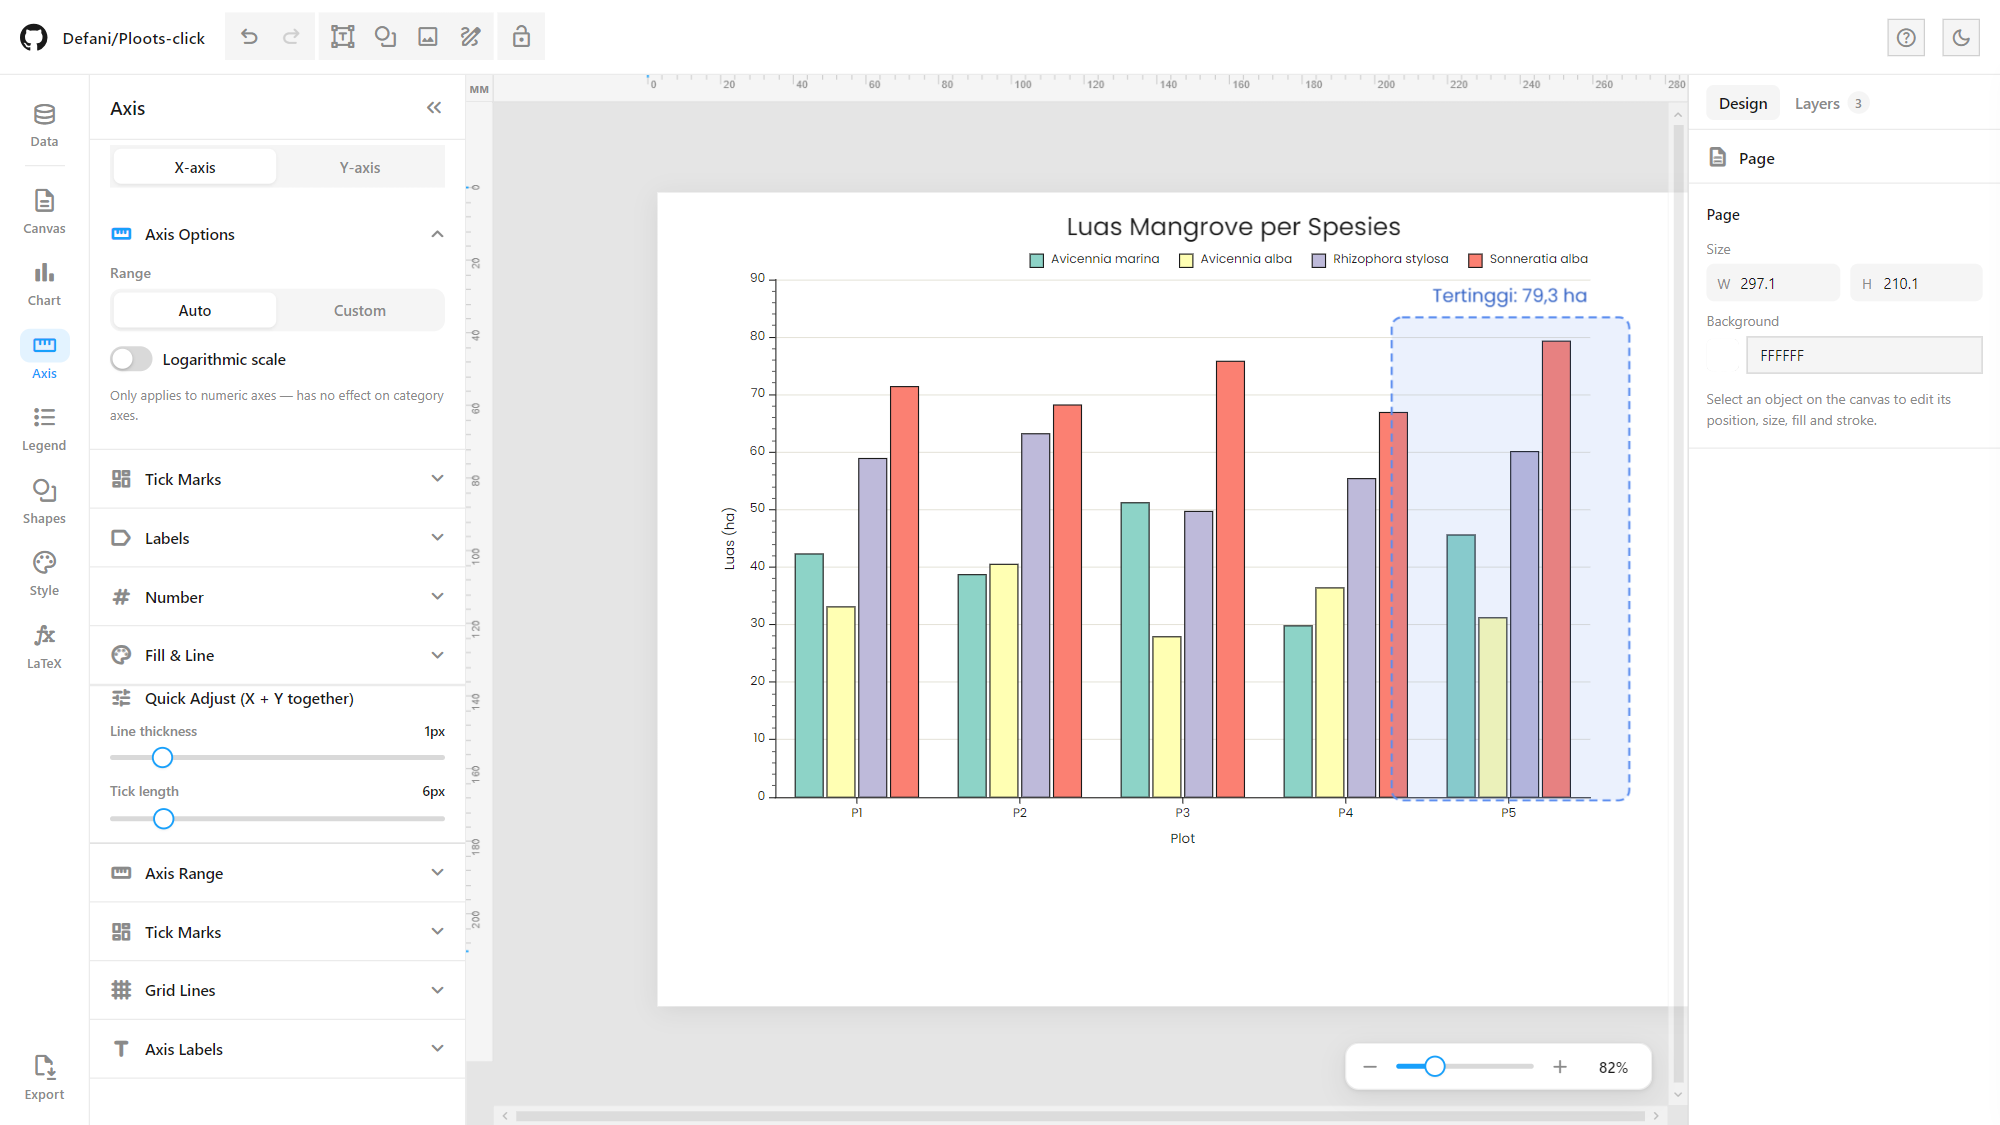
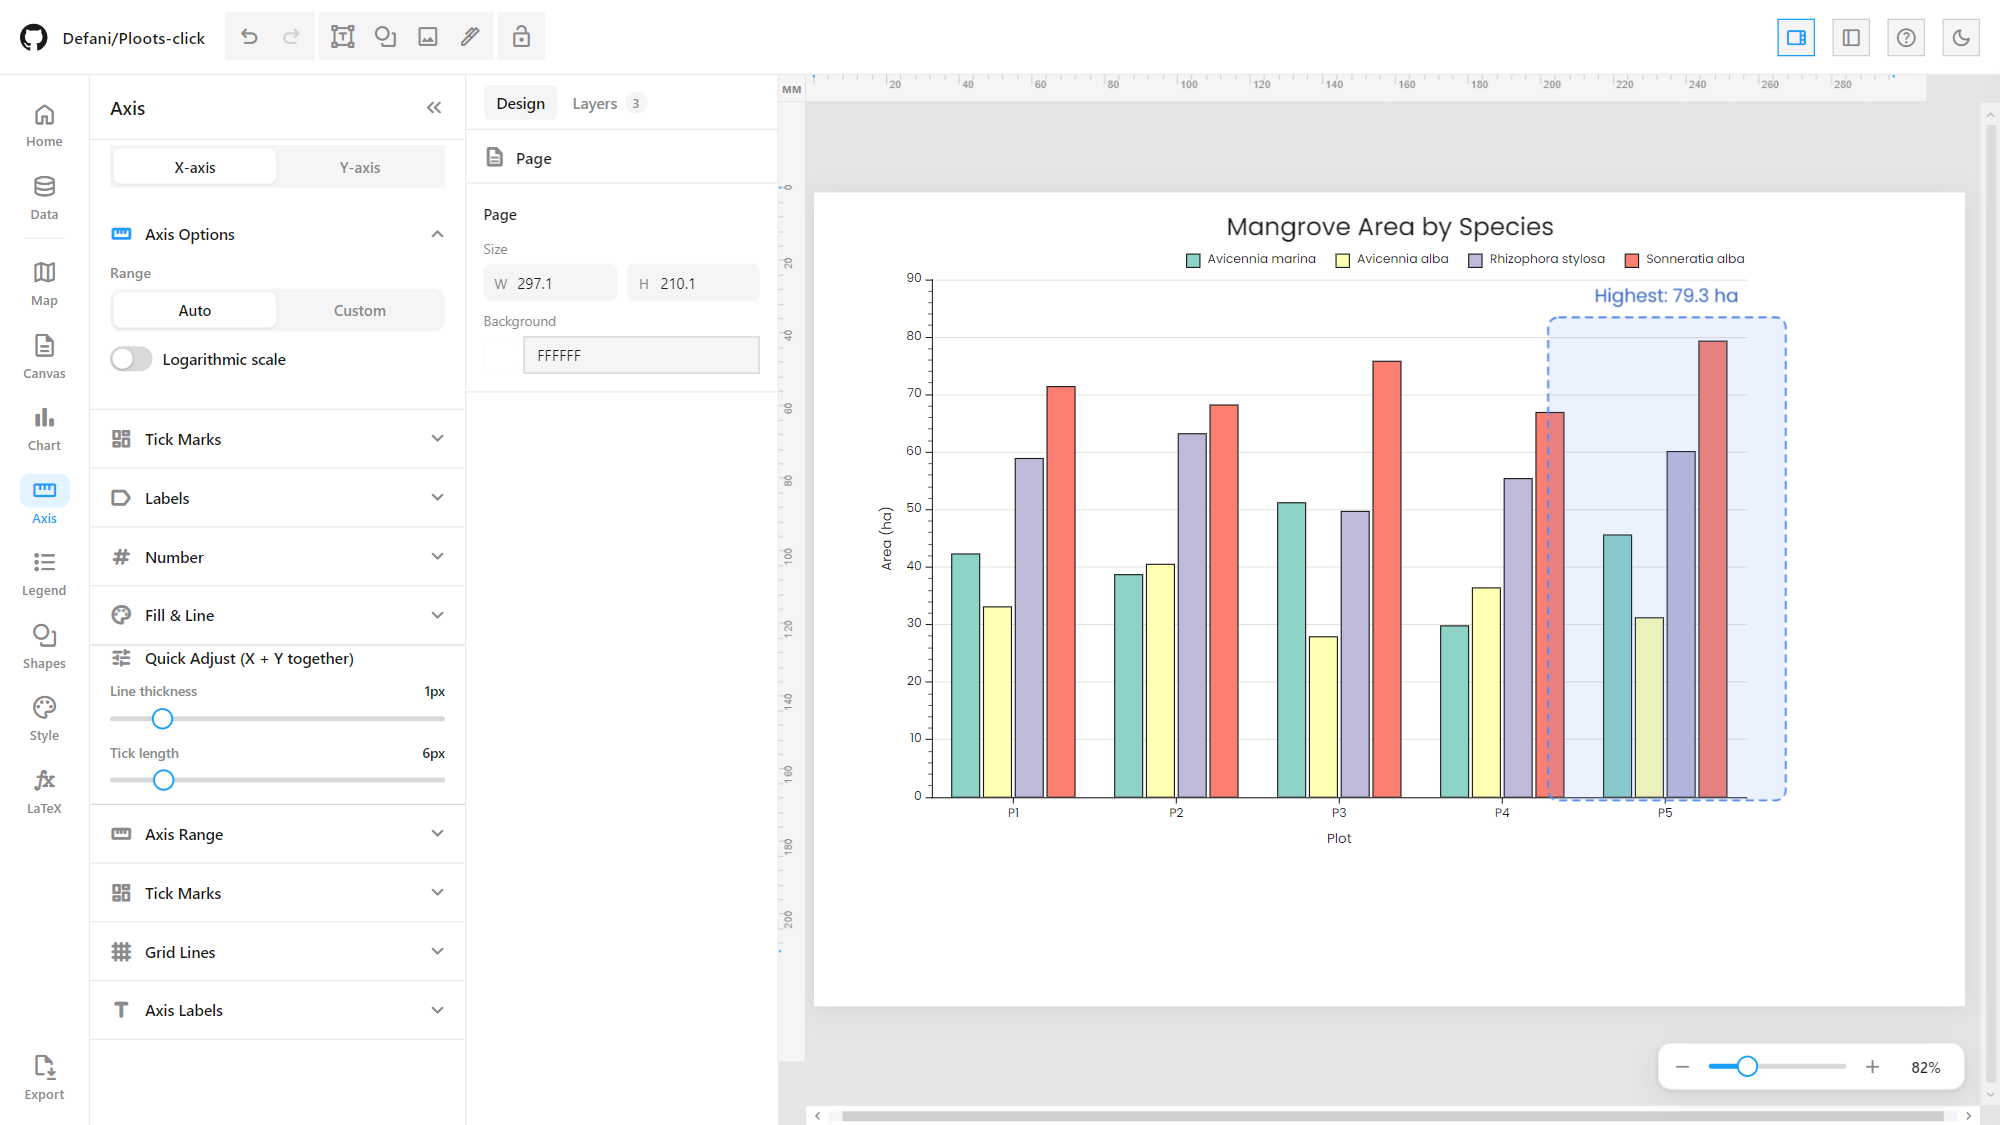
README: map workspace, Home screen and refreshed screenshots
Document the Home screen, the map workspace (layers, symbology,
basemaps, map view, grid, layout items, attribute table), panel docking,
wheel zoom and the Pen tool, with new screenshots of the map workspace,
its layout items and the attribute table. The chart screenshots and the
gallery are retaken with the English sample data and the one-side panel
layout. Libraries, shortcuts, limitations and credits now cover
MapLibre GL, geotiff.js and the basemap providers.

Also keep the Map panel's basemap dropdown in sync with state.

diff --git a/js/gis/06-panel.js b/js/gis/06-panel.js
@@ -251,7 +251,8 @@
   }
 
   function syncViewInputs() {
-    var sc = $("gisScale"), ro = $("gisRotation");
+    var sc = $("gisScale"), ro = $("gisRotation"), bm = $("gisBasemap");
+    if (bm && bm.value !== state.mapBasemap) bm.value = state.mapBasemap;
     if (sc && document.activeElement !== sc) { var n = GIS.getScale ? GIS.getScale() : 0; sc.value = n ? Math.round(n) : ""; }
     if (ro && document.activeElement !== ro) ro.value = GIS.getRotation ? Math.round(GIS.getRotation() * 10) / 10 : 0;
   }

diff --git a/README.md b/README.md
@@ -36,6 +36,7 @@ A single-page, no-backend chart builder for publication-ready figures — paste 
   - [Chart gallery](#chart-gallery)
   - [Data View](#data-view)
   - [Editor: toolbars, Design panel & layers](#editor-toolbars-design-panel--layers)
+  - [Map workspace (GIS)](#map-workspace-gis)
   - [Page layout & annotation](#page-layout--annotation)
   - [Export](#export)
 - [Architecture](#architecture)
@@ -61,17 +62,23 @@ A single-page, no-backend chart builder for publication-ready figures — paste 
 
 ## What is this?
 
-Ploots Click is a **client-side-only web app**: open the page (or visit the GitHub Pages link below) and everything — data parsing, chart rendering, page layout, and export — happens locally in your browser tab. Nothing you paste or upload is ever sent to a server, because there is no server. The app is just static HTML, CSS, and JavaScript, deployed straight from this repository via GitHub Pages, which is why it costs nothing to run and needs zero setup.
+Ploots Click is a **client-side-only web app**: open the page (or visit the GitHub Pages link below) and everything — data parsing, chart rendering, maps, page layout, and export — happens locally in your browser tab (maps fetch their basemap tiles online). Nothing you paste or upload is ever sent to a server, because there is no server. The app is just static HTML, CSS, and JavaScript, deployed straight from this repository via GitHub Pages, which is why it costs nothing to run and needs zero setup.
 
 [⬆ Back to Table of Contents](#table-of-contents)
 
 ## Interface
 
+The app opens on a **Home** screen: make a **Chart** from tabular data or a **Map** from spatial data, blank or from a sample.
+
+<p align="center">
+  <img src="assets/screenshots/home.png" alt="Home screen with the Chart and Map starts" width="100%">
+</p>
+
 <p align="center">
   <img src="assets/screenshots/editor-light.png" alt="Ploots Click editor: chart type gallery on the left, a grouped bar chart on an A4 page, Design panel on the right" width="100%">
 </p>
 
-The editor has three columns: the **left sidebar** (Data, Canvas, Chart, Axis, Legend, Shapes, Style, LaTeX, Export), the **page canvas** in the middle with rulers and a zoom slider, and the **right panel** with the Figma-style **Design** and **Layers** tabs. A dark theme is one click away (moon icon, top right):
+All panels sit on **one side** of the window so the page gets the most room: the rail and sidebar (Home, Data, Map, Canvas, Chart, Axis, Legend, Shapes, Style, LaTeX, Export) with the Figma-style **Design** and **Layers** panel next to them. Two buttons at the top right move the panels to the **left or right** and hide the Design/Layers panel. The page canvas has rulers, the mouse wheel zooms, and a dark theme is one click away (moon icon):
 
 <p align="center">
   <img src="assets/screenshots/editor-dark.png" alt="The same editor in dark theme" width="100%">
@@ -215,12 +222,37 @@ Every chart type, rendered by the D3 engine from its built-in sample data (click
   </tr>
 </table>
 
+### Map workspace (GIS)
+
+Pick **Map** on the Home screen (or the **Map** button in the rail) and the page's chart block becomes a **MapLibre GL** map frame, driven by its own **Map** panel. It works like a small QGIS print layout:
+
+<p align="center">
+  <img src="assets/screenshots/map-workspace.png" alt="Map workspace: ASEAN countries in graduated colors with a legend, scale bar, north arrow, inset map and coordinate grid on an A4 page" width="100%">
+</p>
+
+- **Layers**: any number of **vector** layers (GeoJSON or TopoJSON from a file, a URL or pasted text), **raster** layers (**GeoTIFF**: EPSG:4326, EPSG:3857 and WGS 84 / UTM zones; single-band on a color ramp or RGB) and **XYZ tile** layers. Reorder by drag or arrows, hide, rename, zoom to a layer.
+- **Symbology** per layer, as in QGIS: **Single symbol**, **Categorized** (a color per value, each editable) and **Graduated** (natural breaks / Jenks, quantile or equal interval on a color ramp). Values come from a feature property or are **joined from the Data table**. Labels, fill opacity, stroke, point size and line width.
+- **Basemaps**: every OpenFreeMap style (Positron, Bright, Liberty, Dark, Fiord), MapLibre demo tiles, OpenStreetMap, CARTO Light/Dark, Esri World Imagery and World Topo, OpenTopoMap, or none.
+- **Map view**: set the **scale (1:n)** and **rotation** directly, **lock** the map, or **move the content** inside the frame (double-click the map) with **Pan**, **Select** (click or drag a box) and **Identify** tools. The mouse wheel zooms the map while moving content.
+- **Coordinate grid** (graticule) with frame labels in degrees-minutes or decimal degrees, and a configurable map **frame**.
+- **Layout items**, free objects on the page that stay **linked to the map**: a **legend** built from the symbology, a **scale bar** (single box, double box, line ticks middle/down/up, stepped, hollow or numeric 1:n; units, segments, background frame), a **north arrow** (eight styles, follows the map rotation) and an **inset map** that shows the main map's extent. Move, resize and layer them like any shape; text, LaTeX and shapes from the usual tools sit alongside.
+
+<p align="center">
+  <img src="assets/screenshots/map-items.png" alt="Categorized map on Esri World Imagery with the scale bar selected and its properties in the Map panel" width="100%">
+</p>
+
+- **Attribute table** (a dock under the map): view and **edit** values, **select** features (rows and map stay in sync, selections shown in yellow), show selected only, search, add a field, delete features, and **export GeoJSON or CSV** of all features or only the selected ones.
+
+<p align="center">
+  <img src="assets/screenshots/map-attribute-table.png" alt="Attribute table under the map with two features selected, and the map tool bar with the Select tool active" width="100%">
+</p>
+
 ### Page layout & annotation
 - **Full-page canvas**, separate from the chart block: position and resize the chart anywhere on the page.
 - **10 built-in page templates** (A4/Letter/Legal landscape & portrait, 16:9 and 4:3 presentation, Instagram Story, social square) plus custom width/height in px, mm or cm, and a page background colour.
-- **Zoom** with the slider at the bottom right, Ctrl + and Ctrl − (Ctrl 0 for 100%), or Ctrl + mouse wheel. Custom **pan scrollbars**.
+- **Zoom** with the mouse wheel (around the pointer), the slider at the bottom right, or Ctrl + and Ctrl − (Ctrl 0 for 100%). Shift + wheel pans sideways; custom **pan scrollbars**.
 - **Drafting-style rulers** on the canvas edges, unit- and zoom-aware, that also act as a source for **draggable guide lines**.
-- **Layout objects** on top of the chart (Fabric.js): text boxes, 30 shapes, images and freehand drawing (pen, highlighter, marker, eraser), with lock, duplicate, delete, grouping and a right-click menu.
+- **Layout objects** on top of the chart (Fabric.js): text boxes, 30 shapes, images and a vector **Pen tool** (click for corners, drag for curves, click the first point to close), with lock, duplicate, delete, grouping and a right-click menu.
 - **LaTeX & symbol tool**: type formulas in `$...$` and see them rendered live on the canvas with MathJax (e.g. `$R^2 = 0.95$`, `$CO_2$`), with colour, size and font controls, recent formulas, ready-made templates, and a searchable symbol/unit catalog that also works in axis labels.
 - **Undo/redo** for chart settings and canvas objects alike, and a **help search** (question-mark icon) that finds any menu or setting by name.
 
@@ -335,7 +367,7 @@ flowchart TD
 │   │   ├── 13-axis-title-detach.js #  detach X/Y axis titles into free text
 │   │   ├── 14-legend-hover.js     #   drag the chart legend on the canvas
 │   │   ├── 15-legend-detach.js    #   detach the legend into a free-floating group
-│   │   ├── 16-draw-tool.js        #   freehand Draw tool (pen / highlighter / marker / eraser)
+│   │   ├── 16-draw-tool.js        #   Pen tool: vector paths with corner and curve anchors
 │   │   ├── 17-textbox-resize.js   #   text boxes resize their width instead of stretching the text
 │   │   ├── 18-chart-quickbar.js   #   floating quick controls when the chart is selected
 │   │   ├── 19-axis-tick-float.js  #   "Axis Tick Line" block in the Axis tab
@@ -347,7 +379,17 @@ flowchart TD
 │   │   ├── 25-design-panel.js     #   Figma-style Design tab (position, size, fill/gradient, stroke, shadow)
 │   │   ├── 26-selection-hud.js    #   W × H badge and distance guides for the selection
 │   │   ├── 27-object-float-bar.js #   floating bars for shapes, images, formulas, groups
-│   │   └── 28-axis-controls-sync.js # keeps the Axis tab's controls and the Format Axis panel in sync
+│   │   ├── 28-axis-controls-sync.js # keeps the Axis tab's controls and the Format Axis panel in sync
+│   │   └── 29-panel-dock.js       #   panels on one side (left/right), hide the Design/Layers panel
+│   ├── gis/                       # Map workspace (MapLibre GL)
+│   │   ├── 00-store.js            #   layers (vector / raster / XYZ), selection, export GeoJSON/CSV
+│   │   ├── 01-symbology.js        #   single / categorized / graduated (Jenks, quantile, equal)
+│   │   ├── 02-map.js              #   the map frame: basemaps, layers, grid, frame, scale, rotation, tools
+│   │   ├── 03-items.js            #   legend, scale bar, north arrow, inset map as page items
+│   │   ├── 04-raster.js           #   GeoTIFF reading and rendering (geotiff.js)
+│   │   ├── 05-attribute-table.js  #   attribute table dock
+│   │   ├── 06-panel.js            #   the Map panel
+│   │   └── 07-home.js             #   Home screen
 │   ├── data_view.js               # Data View: AG Grid table, wide/long reshape, transpose
 │   ├── dv_shelves.js              # Data View chart-mapping shelves (drag fields onto X / Y)
 │   ├── data_formulas.js           # Data View spreadsheet formulas (=SUM, =AVERAGE, ...)
@@ -656,10 +698,13 @@ Cap width and line thickness are independently adjustable, and the error bar col
 |---|---|
 | Ctrl+Z / Ctrl+Y (or Ctrl+Shift+Z) | Undo / redo |
 | Ctrl + / Ctrl − / Ctrl 0 | Zoom in / zoom out / zoom to 100% |
-| Ctrl + mouse wheel | Zoom around the pointer |
+| Mouse wheel | Zoom around the pointer (Shift: pan sideways, Alt: pan up/down) |
 | Ctrl+B / Ctrl+I / Ctrl+U | Bold / italic / underline (text selected) |
 | Delete or Backspace | Remove the selected layout object |
 | Ctrl+C (Data View) | Copy the selected cells |
+| Enter / double-click (Pen tool) | Finish the path; Backspace removes the last point, Esc leaves the tool |
+| Double-click the map | Move the map content (Pan / Select / Identify); Esc or Done to leave |
+| Shift + click (map Select tool) | Add to or remove from the selection |
 
 Duplicate, lock, arrange and delete are also on the floating object bar and the right-click menu.
 
@@ -678,13 +723,15 @@ Duplicate, lock, arrange and delete are also on the floating object bar and the 
 | jsPDF | 2.5.1 | cdnjs — PDF export |
 | svg2pdf.js | 2.2.3 | cdnjs — vector charts in PDF export |
 | iconify-icon | 2.1.0 | code.iconify.design — chart-type icons |
+| MapLibre GL JS | 5.9.0 | cdnjs — the map workspace (loaded when a map is opened) |
+| geotiff.js | 2.1.3 | jsDelivr — GeoTIFF raster layers (loaded on first raster) |
 
 [⬆ Back to Table of Contents](#table-of-contents)
 
 ## Known limitations
 
 <details>
-<summary>Click to expand — 5 known limitations</summary>
+<summary>Click to expand — 6 known limitations</summary>
 
 > [!NOTE]
 > Everything runs in the browser tab — there's no server-side processing, so very large datasets or very high-DPI exports can be slow or memory-heavy depending on the device.
@@ -700,6 +747,9 @@ Duplicate, lock, arrange and delete are also on the floating object bar and the 
 
 > [!NOTE]
 > Radial rings charts don't support the secondary Y-axis toggle (it's a single-axis polar layout), and a map's first render shows a brief "Memuat peta…" placeholder while its base-map topojson loads from `vendor/topojson/` (then cached).
+
+> [!NOTE]
+> Maps need an internet connection for MapLibre GL and the basemap tiles. GeoTIFFs are read in EPSG:4326, EPSG:3857 or WGS 84 / UTM and downsampled to 1600 px on the long side; other projections should be reprojected first (e.g. in QGIS).
 
 > [!TIP]
 > All 25 chart types are fully functional and ready to use.
@@ -718,6 +768,9 @@ This project only exists because of the following open-source libraries and free
 - **[math.js](https://mathjs.org/)** — evaluates expressions in Data View formulas
 - **[Papa Parse](https://www.papaparse.com/)** — makes CSV/TSV import reliable, even with messy real-world data (quoted fields, embedded commas, escaped quotes)
 - **[SheetJS](https://sheetjs.com/)** — reads Excel `.xlsx`/`.xls` files (including multi-sheet workbooks) directly in the browser
+- **[MapLibre GL JS](https://maplibre.org/)** — renders the map workspace: vector and raster layers, basemaps, rotation and export
+- **[geotiff.js](https://geotiffjs.github.io/)** — reads GeoTIFF rasters in the browser
+- **[OpenFreeMap](https://openfreemap.org/)**, **[OpenStreetMap](https://www.openstreetmap.org/copyright)**, **[CARTO](https://carto.com/basemaps)**, **[Esri](https://www.esri.com/)** and **[OpenTopoMap](https://opentopomap.org/)** — basemap tiles (attribution is drawn on every map)
 - **[AG Grid](https://www.ag-grid.com/)** (Community edition) — the editable spreadsheet-style table behind the Data View
 - **[marked](https://marked.js.org/)** — renders this README as HTML on the app's splash screen
 - **[jsPDF](https://github.com/parallax/jsPDF)** and **[svg2pdf.js](https://github.com/yWorks/svg2pdf.js)** — PDF export, with the chart kept as vector graphics
